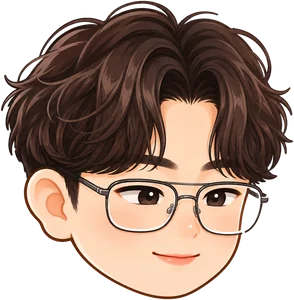
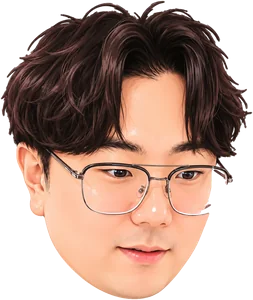
남자 스티커를 사실적인 화풍의 새 그림으로 교체 (흰 테두리 제거)
Claude-Session: https://claude.ai/code/session_01Bp4D1e8R3jVkLidfusfvCF

diff --git a/index.html b/index.html
@@ -45,7 +45,7 @@ h2{font-family:Dongle,sans-serif;font-weight:700;line-height:.95;font-size:39px;
 .b2.photo{width:96px;height:96px;right:2px;top:150px;background:url(balloon-2.webp) 50% 55%/84% no-repeat,radial-gradient(circle at 32% 26%,#F1ECFF,var(--lav) 58%,#A893F0);box-shadow:0 0 0 4px rgba(255,255,255,.7),0 10px 18px rgba(74,45,94,.22),inset -8px -10px 18px rgba(74,45,94,.16),inset 8px 10px 18px rgba(255,255,255,.85)}
 .b3.photo{width:92px;height:92px;left:auto;right:86px;top:153px;background:url(balloon-3.webp) 50% 55%/84% no-repeat,radial-gradient(circle at 32% 26%,#E6F5FF,var(--sky) 58%,#7CC3F2);box-shadow:0 0 0 4px rgba(255,255,255,.7),0 10px 18px rgba(74,45,94,.22),inset -8px -10px 18px rgba(74,45,94,.16),inset 8px 10px 18px rgba(255,255,255,.85)}
 .blob.photo{border-radius:0;box-shadow:none!important;background-color:transparent;background-repeat:no-repeat;background-position:center;background-size:contain;filter:drop-shadow(0 8px 10px rgba(74,45,94,.28))}
-.b1.photo{background-image:url(balloon-1.webp?v=2)}.b2.photo{background-image:url(balloon-2.webp?v=3);z-index:1}.b3.photo{background-image:url(balloon-3.webp?v=3);z-index:1}
+.b1.photo{background-image:url(balloon-1.webp?v=2)}.b2.photo{background-image:url(balloon-2.webp?v=4);z-index:1}.b3.photo{background-image:url(balloon-3.webp?v=3);z-index:1}
 .blob.photo::before,.blob.photo::after{display:none}
 .top .in{position:relative;z-index:1}
 .top .row>div:first-child{flex:1 1 260px}

diff --git a/sw.js b/sw.js
@@ -1,6 +1,6 @@
 // 인터넷이 될 때는 항상 최신 파일을, 안 될 때는 마지막으로 받아 둔 파일을 보여줘요.
-const CACHE = 'trip-app-v17';
-const FILES = ['./', './index.html', './manifest.webmanifest', './icon-192.png', './icon-512.png', './icon-180.png', './balloon-1.webp?v=2', './balloon-2.webp?v=3', './balloon-3.webp?v=3'];
+const CACHE = 'trip-app-v18';
+const FILES = ['./', './index.html', './manifest.webmanifest', './icon-192.png', './icon-512.png', './icon-180.png', './balloon-1.webp?v=2', './balloon-2.webp?v=4', './balloon-3.webp?v=3'];
 self.addEventListener('install', e => { e.waitUntil(caches.open(CACHE).then(c => c.addAll(FILES))); self.skipWaiting(); });
 self.addEventListener('activate', e => { e.waitUntil(caches.keys().then(ks => Promise.all(ks.filter(k => k !== CACHE).map(k => caches.delete(k))))); self.clients.claim(); });
 self.addEventListener('fetch', e => {
